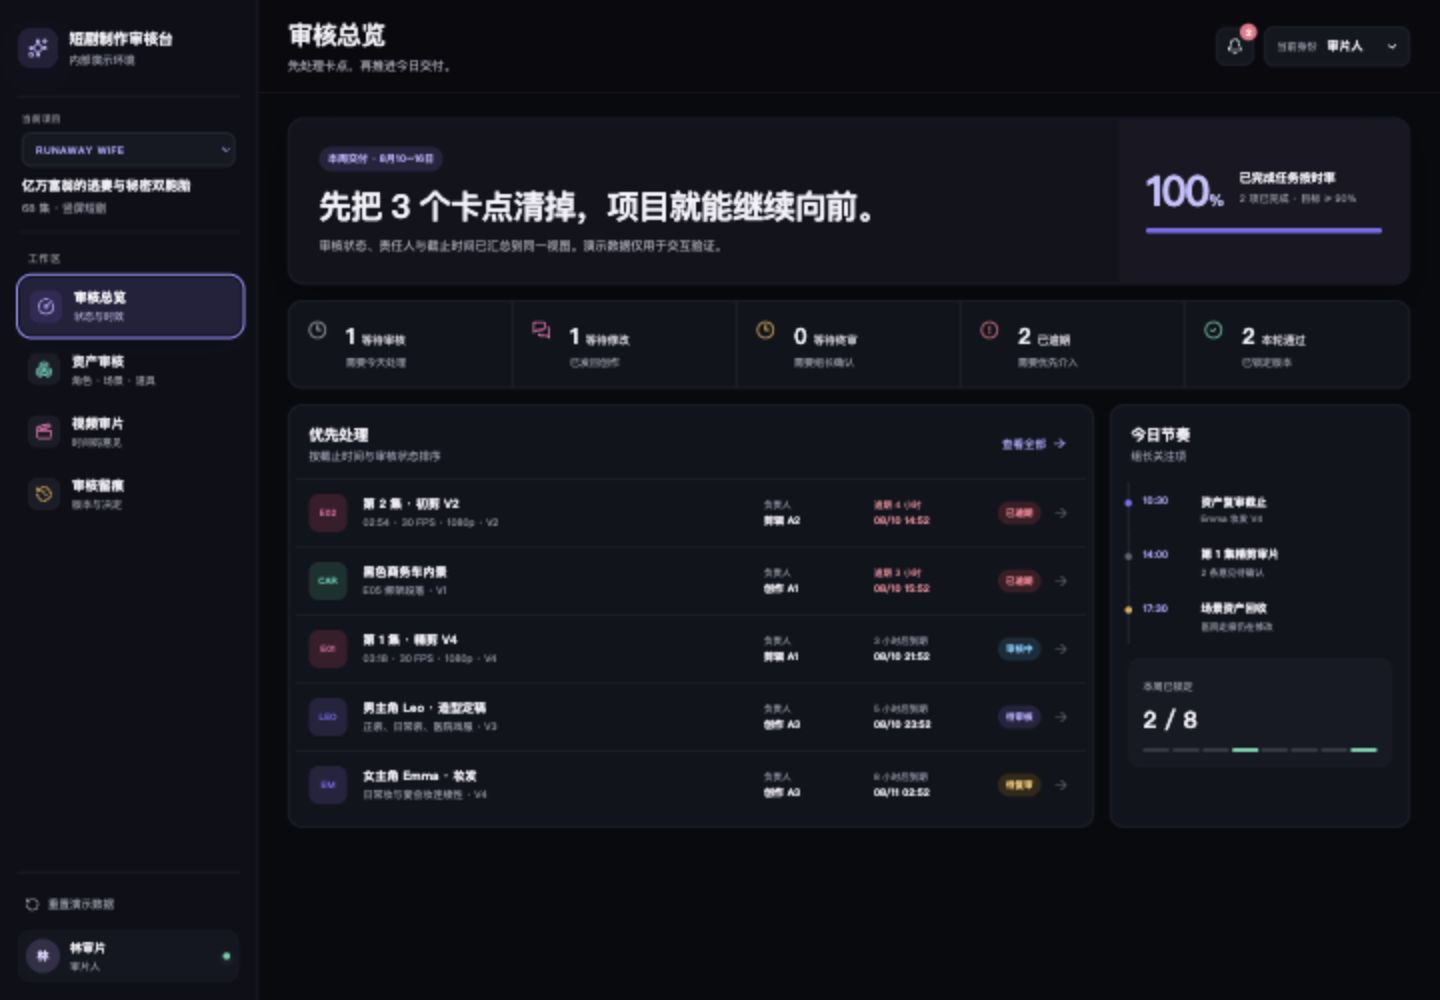
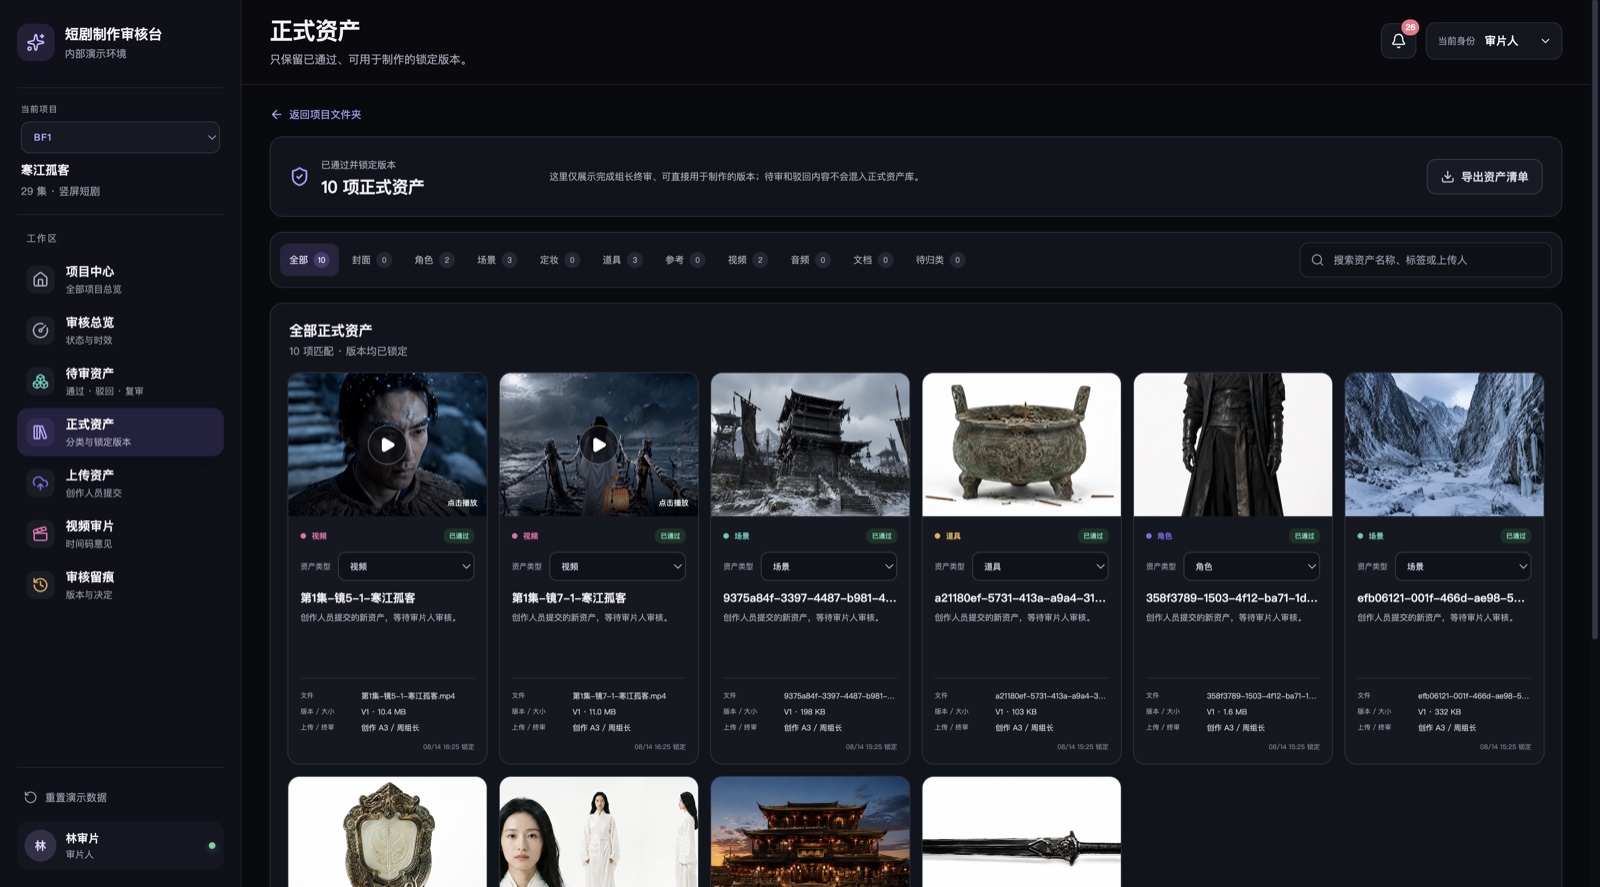
Replace review workbench cover image

diff --git a/index.html b/index.html
@@ -368,6 +368,14 @@
 
   .project:hover .project-visual img { transform: scale(1.04); }
 
+  .project-visual.review-cover {
+    background: #0b0b12;
+  }
+
+  .project-visual.review-cover img {
+    object-fit: contain;
+  }
+
   .project-visual-placeholder {
     width: 100%;
     height: 100%;
@@ -831,7 +839,7 @@
 
     <!-- Project 06 -->
     <article class="project fade-in">
-      <div class="project-visual">
+      <div class="project-visual review-cover">
         <img src="review-workbench-preview.jpg" alt="短剧审片工作台">
       </div>
       <div class="project-meta-row">
